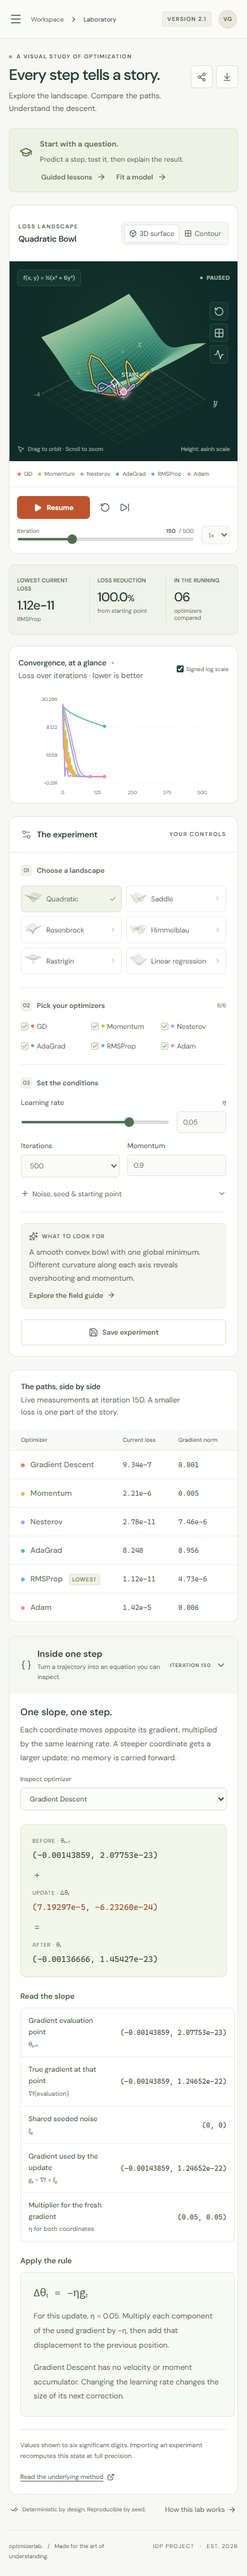
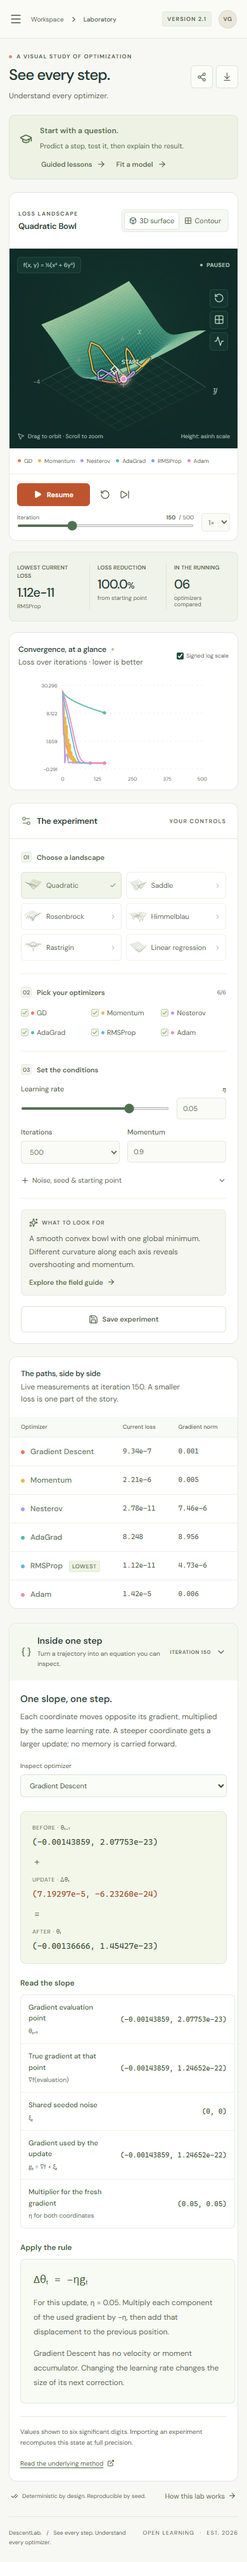
feat: rebrand the educational platform as DescentLab

diff --git a/src/App.tsx b/src/App.tsx
@@ -73,12 +73,12 @@ import {
 
 type Page = 'lab' | 'learn' | 'study' | 'experiments' | 'guide';
 type Modal = 'export' | 'share' | 'save' | 'help' | null;
-const REPO_URL = 'https://github.com/guptavernit2-afk/idp-optimizer-visual-lab';
+const REPO_URL = 'https://github.com/guptavernit2-afk/descent-lab';
 const PAGE_META = {
   lab: {
     label: 'Laboratory',
-    title: 'Every step tells a story.',
-    description: 'Explore the landscape. Compare the paths. Understand the descent.',
+    title: 'See every step.',
+    description: 'Understand every optimizer.',
   },
   learn: {
     label: 'Learning path',
@@ -460,6 +460,7 @@ export default function App() {
         <a
           className="brand"
           href="#"
+          aria-label="DescentLab home"
           onClick={(event) => {
             event.preventDefault();
             navigate('lab');
@@ -469,9 +470,12 @@ export default function App() {
             <Mountain size={25} strokeWidth={1.5} />
           </span>
           <span>
-            optimizer
+            Descent
             <span className="brand-light">
-              lab<span className="brand-dot">.</span>
+              Lab
+              <span className="brand-dot" aria-hidden="true">
+                .
+              </span>
             </span>
           </span>
         </a>
@@ -1181,11 +1185,15 @@ export default function App() {
           {page === 'guide' && <FieldGuide onStart={() => applyPreset(PRESETS[0])} />}
           <footer className="page-footer">
             <span>
-              optimizerlab<span className="brand-dot">.</span>{' '}
-              <span className="footer-separator">/</span> Made for the art of understanding.
+              DescentLab
+              <span className="brand-dot" aria-hidden="true">
+                .
+              </span>{' '}
+              <span className="footer-separator">/</span> See every step. Understand every
+              optimizer.
             </span>
             <span>
-              IDP PROJECT <span className="footer-separator">·</span> EST. 2026
+              OPEN LEARNING <span className="footer-separator">·</span> EST. 2026
             </span>
           </footer>
         </main>
@@ -1242,7 +1250,7 @@ export default function App() {
             <button
               onClick={() => {
                 downloadFile(
-                  `optimizer-lab-${surface.id}.csv`,
+                  `descent-lab-${surface.id}.csv`,
                   exportCsv(result, step),
                   'text/csv;charset=utf-8',
                 );
@@ -1260,7 +1268,7 @@ export default function App() {
             <button
               onClick={() => {
                 downloadFile(
-                  `optimizer-lab-${surface.id}.json`,
+                  `descent-lab-${surface.id}.json`,
                   exportJson(result, step),
                   'application/json',
                 );
@@ -1281,7 +1289,7 @@ export default function App() {
                 if (!canvas) return;
                 try {
                   const blob = await exportLandscapePng(canvas, config, step);
-                  downloadFile(`optimizer-lab-${surface.id}.png`, blob, 'image/png');
+                  downloadFile(`descent-lab-${surface.id}.png`, blob, 'image/png');
                   setToast('Landscape image exported.');
                   setModal(null);
                 } catch {

diff --git a/tests/app.spec.ts b/tests/app.spec.ts
@@ -20,7 +20,7 @@ async function enterNumber(page: Page, label: string, value: string) {
 
 test.beforeEach(async ({ page }) => {
   await page.goto('./');
-  await expect(page.getByRole('heading', { name: 'Every step tells a story.' })).toBeVisible();
+  await expect(page.getByRole('heading', { name: 'See every step.' })).toBeVisible();
 });
 
 test('exports precise CSV measurements and a self-contained PNG figure', async ({ page }) => {
@@ -154,7 +154,7 @@ test('exports JSON traces and imports the same reproducible checkpoint', async (
   const downloaded = page.waitForEvent('download');
   await page.getByRole('button', { name: /Experiment as JSON/ }).click();
   const file = await downloaded;
-  expect(file.suggestedFilename()).toBe('optimizer-lab-quadratic.json');
+  expect(file.suggestedFilename()).toBe('descent-lab-quadratic.json');
   const filePath = await file.path();
   expect(filePath).not.toBeNull();
   const content = JSON.parse(await readFile(filePath!, 'utf8'));
@@ -183,9 +183,7 @@ test('rejects unsupported and malformed imports without losing the current setup
     mimeType: 'application/json',
     buffer: Buffer.from('{}'),
   });
-  await expect(page.getByRole('status')).toContainText(
-    'not a supported Optimizer Lab v2 experiment',
-  );
+  await expect(page.getByRole('status')).toContainText('not a supported DescentLab v2 experiment');
   await expect(page.getByRole('heading', { name: /^Quartic Saddle/ })).toBeVisible();
   await input.setInputFiles({
     name: 'broken.json',

diff --git a/src/lib/persistence.ts b/src/lib/persistence.ts
@@ -1,5 +1,6 @@
 import { normalizeConfig, type ExperimentConfig, type ExperimentResult } from './engine';
 
+// Keep the original storage key and wire-format IDs so saved experiments survive the rebrand.
 const STORAGE_KEY = 'optimizer-lab.experiments.v2';
 export interface SavedExperiment {
   id: string;
@@ -52,10 +53,10 @@ function validIteration(value: unknown, budget: number): number {
 }
 
 export function parseExperiment(input: unknown): { config: ExperimentConfig; iteration: number } {
-  if (!input || typeof input !== 'object') throw new Error('Choose an Optimizer Lab JSON export.');
+  if (!input || typeof input !== 'object') throw new Error('Choose a DescentLab JSON export.');
   const data = input as Record<string, unknown>;
   if (data.format !== 'optimizer-lab/v2')
-    throw new Error('This file is not a supported Optimizer Lab v2 experiment.');
+    throw new Error('This file is not a supported DescentLab v2 experiment.');
   const config = normalizeConfig(data.config);
   return { config, iteration: validIteration(data.iteration, config.steps) };
 }

diff --git a/src/components/ParameterStudy.tsx b/src/components/ParameterStudy.tsx
@@ -435,7 +435,7 @@ export default function ParameterStudy({
                   className="button secondary"
                   onClick={() =>
                     downloadFile(
-                      `optimizer-study-${result.config.surfaceId}.csv`,
+                      `descent-lab-study-${result.config.surfaceId}.csv`,
                       studyCsv(result),
                       'text/csv;charset=utf-8',
                     )
@@ -449,7 +449,7 @@ export default function ParameterStudy({
                   className="button secondary"
                   onClick={() =>
                     downloadFile(
-                      `optimizer-study-${result.config.surfaceId}.json`,
+                      `descent-lab-study-${result.config.surfaceId}.json`,
                       studyJson(result),
                       'application/json',
                     )

diff --git a/src/lib/persistence.test.ts b/src/lib/persistence.test.ts
@@ -156,11 +156,11 @@ describe('measurement CSV exports', () => {
 describe('shared experiment links', () => {
   it('round-trips settings and iteration on a repository subpath', () => {
     vi.stubGlobal('window', {
-      location: { href: 'https://example.test/idp-optimizer-visual-lab/?view=lab#old-fragment' },
+      location: { href: 'https://example.test/descent-lab/?view=lab#old-fragment' },
     });
     const url = new URL(shareUrl(configuration, 7));
     expect(url.origin).toBe('https://example.test');
-    expect(url.pathname).toBe('/idp-optimizer-visual-lab/');
+    expect(url.pathname).toBe('/descent-lab/');
     expect(url.search).toBe('?view=lab');
     expect(sharedExperiment(url.hash)).toEqual({ config: configuration, iteration: 7 });
   });

diff --git a/index.html b/index.html
@@ -6,10 +6,10 @@
     <meta name="theme-color" content="#153b34" />
     <meta
       name="description"
-      content="Learn optimization through guided experiments, inspect six algorithms step by step, fit a regression model, and compare learning-rate sensitivity."
+      content="DescentLab. See every step. Understand every optimizer. Learn through guided experiments, inspect six algorithms, fit a regression model, and compare learning-rate sensitivity."
     />
     <link rel="icon" type="image/svg+xml" href="./favicon.svg" />
-    <title>Optimizer Lab — Explore the path to a minimum</title>
+    <title>DescentLab — See every step. Understand every optimizer.</title>
   </head>
   <body>
     <div id="root"></div>

diff --git a/tests/education.spec.ts b/tests/education.spec.ts
@@ -94,9 +94,7 @@ test('a lesson opens its exact experiment and browser history preserves the lab 
   const experiment = page.getByRole('region', { name: 'Double the learning rate', exact: true });
   await experiment.getByRole('button', { name: 'Open in lab', exact: true }).click();
   await expect(page).toHaveURL(/\?page=lab/);
-  await expect(
-    page.getByRole('heading', { name: 'Every step tells a story.', exact: true }),
-  ).toBeVisible();
+  await expect(page.getByRole('heading', { name: 'See every step.', exact: true })).toBeVisible();
   await expect(page.getByRole('spinbutton', { name: 'Learning rate', exact: true })).toHaveValue(
     '0.1',
   );

diff --git a/src/lib/figure.ts b/src/lib/figure.ts
@@ -20,7 +20,7 @@ export async function exportLandscapePng(
   context.fillRect(0, 0, width, output.height);
   context.fillStyle = '#d7e7c7';
   context.font = '500 30px "DM Sans Variable", sans-serif';
-  context.fillText(`Optimizer Lab / ${surface.name}`, 38, 49);
+  context.fillText(`DescentLab / ${surface.name}`, 38, 49);
   context.fillStyle = '#b5cfbc';
   context.font = '18px "DM Sans Variable", sans-serif';
   context.fillText(surface.formula, 38, 88);

diff --git a/src/components/FieldGuide.tsx b/src/components/FieldGuide.tsx
@@ -113,7 +113,7 @@ export default function FieldGuide({ onStart }: FieldGuideProps) {
             AdaGrad paper <ExternalLink size={12} />
           </a>
           <a
-            href="https://github.com/guptavernit2-afk/idp-optimizer-visual-lab/blob/main/docs/methodology.md"
+            href="https://github.com/guptavernit2-afk/descent-lab/blob/main/docs/methodology.md"
             target="_blank"
             rel="noreferrer"
           >

diff --git a/src/lib/lessons.ts b/src/lib/lessons.ts
@@ -336,6 +336,7 @@ export function runLesson(lesson: LearningLesson): ExperimentResult[] {
   return lesson.experiments.map(({ config }) => runExperiment(config));
 }
 
+// Preserve progress saved before the DescentLab rebrand.
 export const LEARNING_PROGRESS_KEY = 'optimizer-lab.learning.v1';
 
 export function validLessonProgress(value: unknown): string[] {

diff --git a/README.md b/README.md
@@ -1,10 +1,10 @@
-# IDP Optimizer Visual Lab
+# DescentLab
 
-**Predict the next step. Inspect the mathematics. Test your explanation.**
+**See every step. Understand every optimizer.**
 
-[Open the platform](https://idp-optimizer-visual-lab.vercel.app/) · [Start learning](https://idp-optimizer-visual-lab.vercel.app/?page=learn) · [Teaching guide](docs/learning-design.md) · [Development guide](CONTRIBUTING.md)
+[Open the platform](https://descent-lab.vercel.app/) · [Start learning](https://descent-lab.vercel.app/?page=learn) · [Teaching guide](docs/learning-design.md) · [Development guide](CONTRIBUTING.md)
 
-[![CI](https://github.com/guptavernit2-afk/idp-optimizer-visual-lab/actions/workflows/ci.yml/badge.svg)](https://github.com/guptavernit2-afk/idp-optimizer-visual-lab/actions/workflows/ci.yml)
+[![CI](https://github.com/guptavernit2-afk/descent-lab/actions/workflows/ci.yml/badge.svg)](https://github.com/guptavernit2-afk/descent-lab/actions/workflows/ci.yml)
 
 A browser-based educational platform for understanding gradient-based optimization. Learn through guided experiments, inspect the arithmetic and memory behind an update, fit a model to synthetic observations, and test learning-rate sensitivity across repeated trials.
 
@@ -32,8 +32,8 @@ Everything runs in your browser. The application has no backend, account require
 Use **Node.js 24.x** and npm, matching CI and the production build.
 
 ```bash
-git clone https://github.com/guptavernit2-afk/idp-optimizer-visual-lab.git
-cd idp-optimizer-visual-lab
+git clone https://github.com/guptavernit2-afk/descent-lab.git
+cd descent-lab
 npm ci
 npm run dev
 ```
@@ -112,7 +112,7 @@ The numerical engine is independent of React and rendering. This makes optimizer
 
 The production output is static and can be hosted on GitHub Pages or any static file host. Relative asset paths are used by default. `VITE_BASE_PATH` can override the deployment base when needed.
 
-**Production is live on [Vercel](https://idp-optimizer-visual-lab.vercel.app/).** The account-owned project is connected to this repository, and pushes to `main` trigger production builds. The public production domain requires no visitor login. [GitHub Pages](https://guptavernit2-afk.github.io/idp-optimizer-visual-lab/) remains an independent fallback. The repository includes `vercel.json` and an explicit upload exclusion list; hosting credentials stay outside Git. See [deployment instructions](docs/deployment.md) for build settings, verification, and preview access.
+**Production is live on [Vercel](https://descent-lab.vercel.app/).** The account-owned project is connected to this repository, and pushes to `main` trigger production builds. The public production domain requires no visitor login. [GitHub Pages](https://guptavernit2-afk.github.io/descent-lab/) remains an independent fallback. The repository includes `vercel.json` and an explicit upload exclusion list; hosting credentials stay outside Git. See [deployment instructions](docs/deployment.md) for build settings, verification, and preview access.
 
 GitHub Actions checks the project on pushes and pull requests. After a successful `CI` run on `main`, the Pages workflow builds and publishes `dist/`; it can also be run manually. This repository is configured to use **GitHub Actions** as its Pages source. See [deployment notes](docs/deployment.md) for setup and troubleshooting.
 

diff --git a/docs/deployment.md b/docs/deployment.md
@@ -4,9 +4,11 @@ The current laboratory builds to a static `dist/` directory. It requires no serv
 
 ## Production: Vercel
 
-The permanent application is [idp-optimizer-visual-lab.vercel.app](https://idp-optimizer-visual-lab.vercel.app/). It belongs to the repository owner's Vercel account and has no temporary-deployment expiry. The production domain is public; learners do not need a Vercel account.
+The permanent application is [descent-lab.vercel.app](https://descent-lab.vercel.app/). It belongs to the repository owner's Vercel account and has no temporary-deployment expiry. The production domain is public; learners do not need a Vercel account.
 
-The `idp-optimizer-visual-lab` Vercel project is connected to this GitHub repository. Pushes to `main` trigger production builds; other branches can produce protected previews. GitHub CI runs independently, and the separate GitHub Pages workflow publishes only after CI succeeds. A successful Vercel build alone does not mean the test suite passed.
+The previous production hostname remains attached to this same project for existing bookmarks and browser notebooks. New links use the DescentLab domain. Saved experiments and lesson progress belong to a browser origin, so they do not automatically transfer between hostnames. To move an experiment, export its JSON from the previous hostname and import it on DescentLab; existing JSON formats remain supported.
+
+The `descent-lab` Vercel project is connected to this GitHub repository. Pushes to `main` trigger production builds; other branches can produce protected previews. GitHub CI runs independently, and the separate GitHub Pages workflow publishes only after CI succeeds. A successful Vercel build alone does not mean the test suite passed.
 
 Vercel and Render both support static frontends. Vercel is a direct fit for this Vite project, with framework detection and Git-linked previews. The application does not need a continuously running Render web service; if deploying there, use a Static Site. See [Vercel's Vite documentation](https://vercel.com/docs/frameworks/frontend/vite) and [Render's static-site documentation](https://render.com/docs/static-sites).
 
